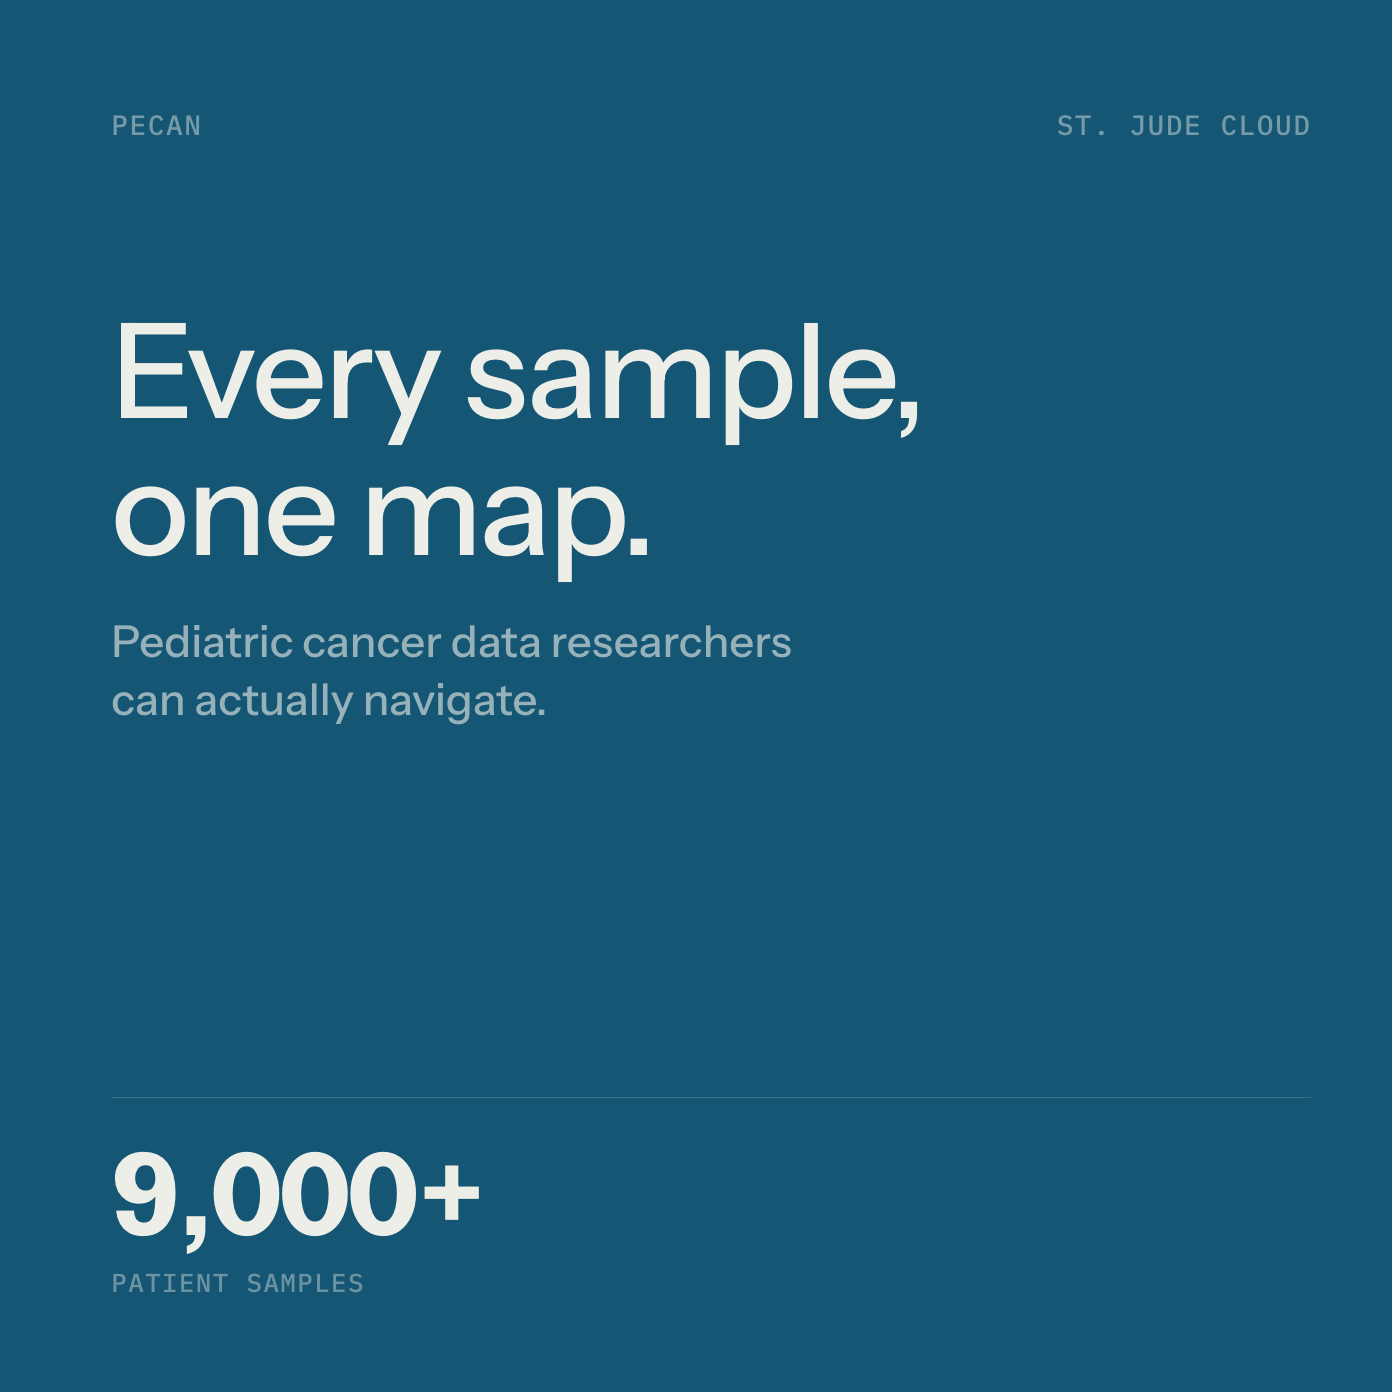
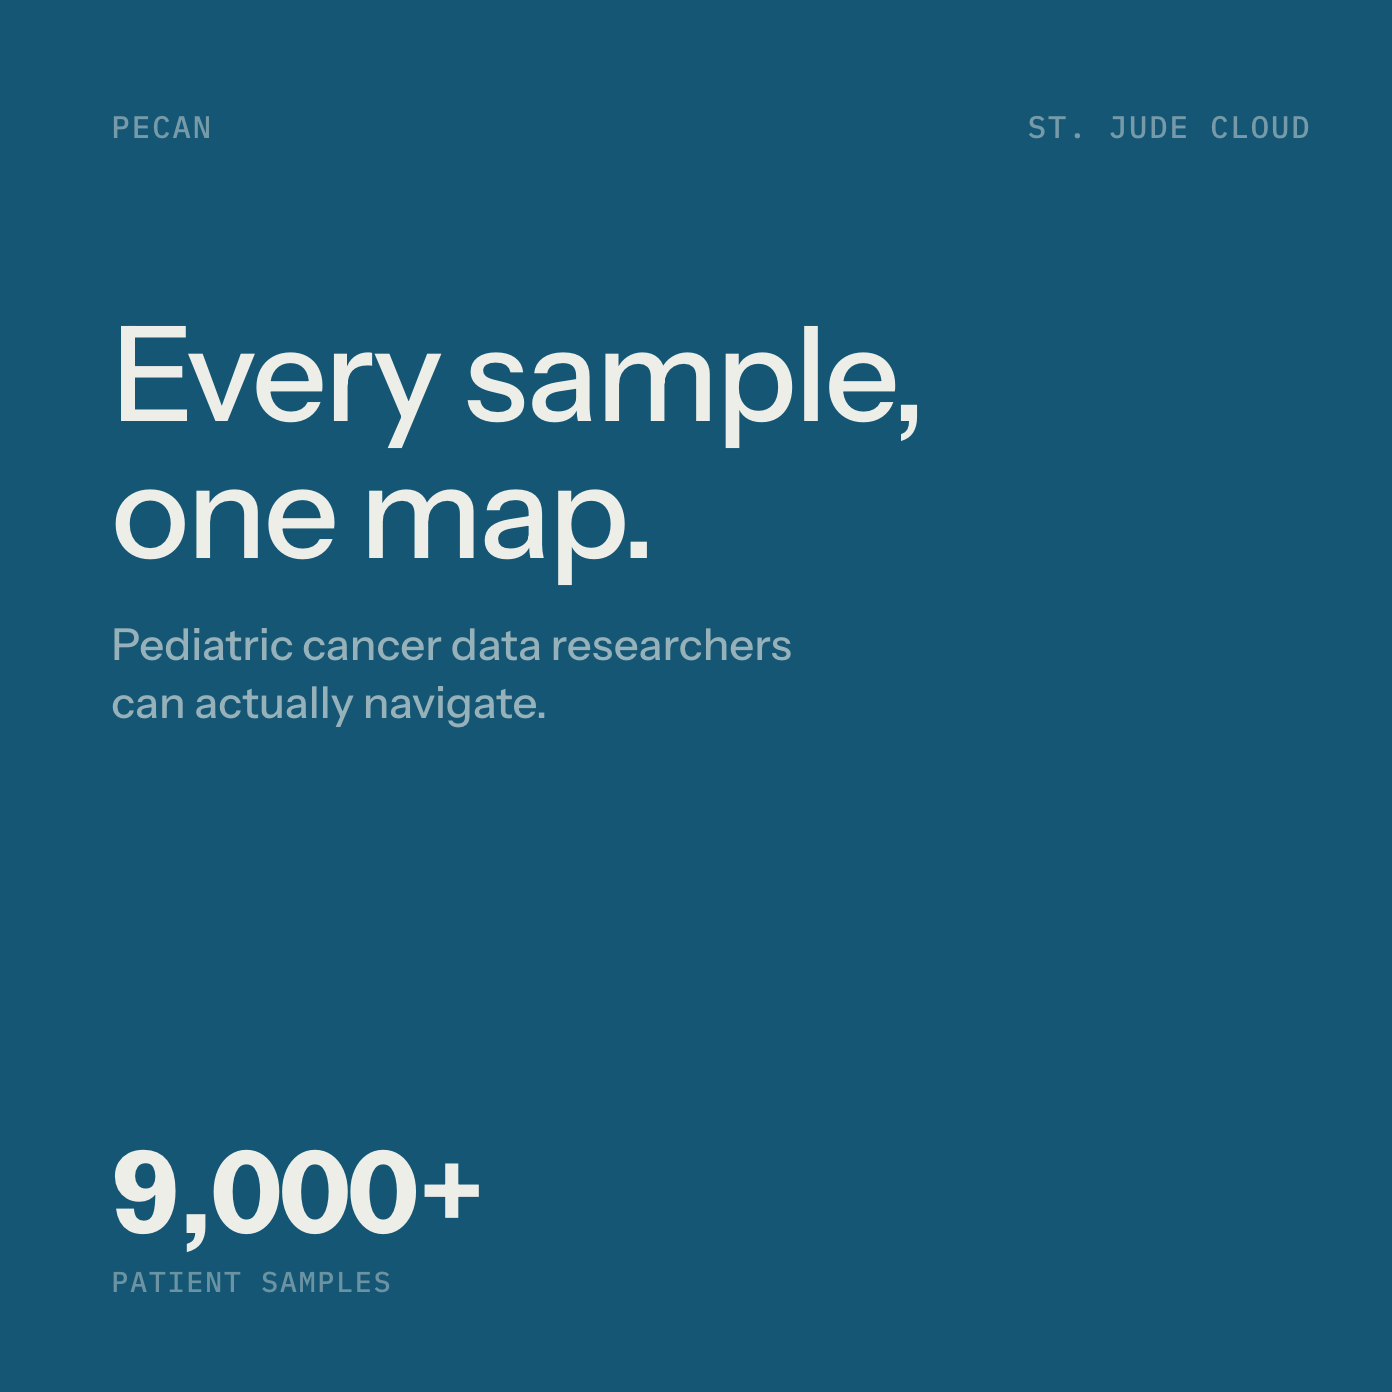
Card grounds take the hero chip hues; tune type and artifacts
James's five: card colors now derive from the hero highlight chips
(same hue, darkened to hold 7:1+ with the off-white type — the raw
chip colors are too light to sit under text): NatureDose and
NatureQuant from the green chip, PeCan cyan, Viz blue. Canon, which
has no hero sentence, goes plain warm grey. Rule above the stats
removed (component and og covers both). Card mono labels up ~15%
(2.8/2.4cqw). PeCan sunburst recropped on its true center — the old
box was 8px off and cut a flat chord into the circle. Canon gets an
artifact too: the live gallery's picks row, screenshotted, grayscaled
and inverted (the site is white; screen blend needs a dark source —
legitimate for a strictly monochrome brand) at 0.6 opacity.

diff --git a/assets/css/styles.css b/assets/css/styles.css
@@ -4297,7 +4297,7 @@ blockquote span {
 .wc_top {
   display: flex;
   font-family: "IBM Plex Mono", "Courier New", Courier, monospace;
-  font-size: 2.5cqw;
+  font-size: 2.8cqw;
   font-weight: 500;
   justify-content: space-between;
   letter-spacing: 0.05em;
@@ -4359,16 +4359,18 @@ blockquote span {
   width: 52cqw;
 }
 
+.hwc.canon .wc_artifact {
+  border-radius: 1cqw;
+  bottom: 24cqw;
+  opacity: 0.6;
+  right: -14cqw;
+  width: 64cqw;
+}
+
 .wc_foot {
   margin-top: auto;
   position: relative;
   z-index: 2;
-}
-
-.wc_rule {
-  background: currentColor;
-  height: 1px;
-  opacity: 0.18;
 }
 
 .wc_stats {
@@ -4387,7 +4389,7 @@ blockquote span {
 .wc_stats span {
   display: block;
   font-family: "IBM Plex Mono", "Courier New", Courier, monospace;
-  font-size: 2.1cqw;
+  font-size: 2.4cqw;
   font-weight: 500;
   letter-spacing: 0.05em;
   line-height: 1;

diff --git a/tools/covers/covers.css b/tools/covers/covers.css
@@ -28,7 +28,7 @@
 }
 .cover__label,
 .cover__status {
-  font: 500 2.3333cqw/1 "IBM Plex Mono", ui-monospace, monospace;
+  font: 500 2.6cqw/1 "IBM Plex Mono", ui-monospace, monospace;
   letter-spacing: .05em;
   text-transform: uppercase;
   opacity: .45;
@@ -55,11 +55,7 @@
 /* --- footer: rule + stats, pinned to bottom margin -------- */
 .cover__foot { margin-top: auto; }
 
-.cover__rule {
-  height: 1px;
-  background: currentColor;
-  opacity: .18;
-}
+.cover__rule { display: none; }
 
 .cover__stats {
   display: flex;
@@ -74,7 +70,7 @@
 .cover__stat span {
   display: block;
   margin-top: 1.075cqw;
-  font: 500 2.1667cqw/1 "IBM Plex Mono", ui-monospace, monospace;
+  font: 500 2.4cqw/1 "IBM Plex Mono", ui-monospace, monospace;
   letter-spacing: .05em;
   text-transform: uppercase;
   opacity: .4;

diff --git a/_sass/styles.scss b/_sass/styles.scss
@@ -3802,7 +3802,7 @@ blockquote {
 .wc_top {
   display: flex;
   font-family: $mono;
-  font-size: 2.5cqw;
+  font-size: 2.8cqw;
   font-weight: 500;
   justify-content: space-between;
   letter-spacing: 0.05em;
@@ -3870,16 +3870,18 @@ blockquote {
   width: 52cqw;
 }
 
+.hwc.canon .wc_artifact {
+  border-radius: 1cqw;
+  bottom: 24cqw;
+  opacity: 0.6;
+  right: -14cqw;
+  width: 64cqw;
+}
+
 .wc_foot {
   margin-top: auto;
   position: relative;
   z-index: 2;
-}
-
-.wc_rule {
-  background: currentColor;
-  height: 1px;
-  opacity: 0.18;
 }
 
 .wc_stats {
@@ -3899,7 +3901,7 @@ blockquote {
   span {
     display: block;
     font-family: $mono;
-    font-size: 2.1cqw;
+    font-size: 2.4cqw;
     font-weight: 500;
     letter-spacing: 0.05em;
     line-height: 1;
